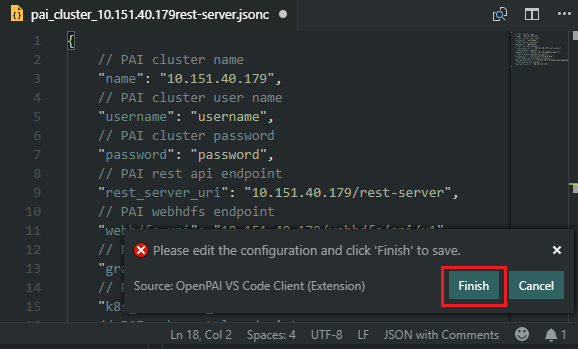
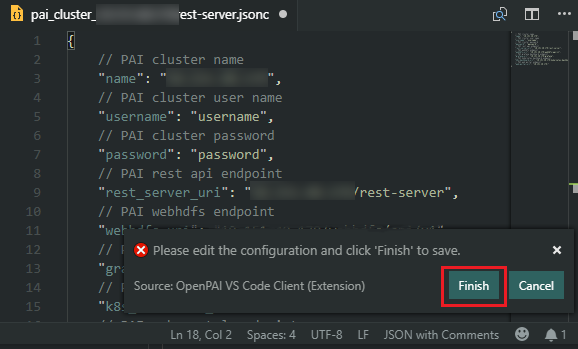
[VS Code] Readme update (#2108)
* readme update

* update screenshot picture

diff --git a/README.md b/README.md
@@ -1,5 +1,5 @@
 # OpenPAI VS Code Client
-[![Build Status](https://openpai.visualstudio.com/PAIexp/_apis/build/status/pai_vscode?branchName=master)](https://openpai.visualstudio.com/PAIexp/_build/latest?definitionId=9?branchName=master)
+
 OpenPAI Client is an extension to connect PAI clusters, submit AI jobs, and manage files on HDFS.
 
 ## Get Started
@@ -76,6 +76,10 @@ PAI Cluster Version >= 0.8.0
 
 ## Contributing
 https://github.com/Microsoft/pai#how-to-contribute
+
+**Report an issue**:
+
+If you have issue/ bug/ new feature request, please submit it at [GitHub](https://github.com/Microsoft/pai/issues)
 
 ## License
 MIT
